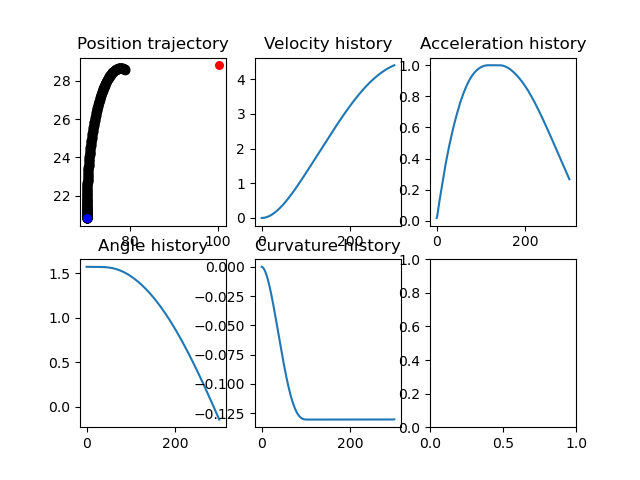
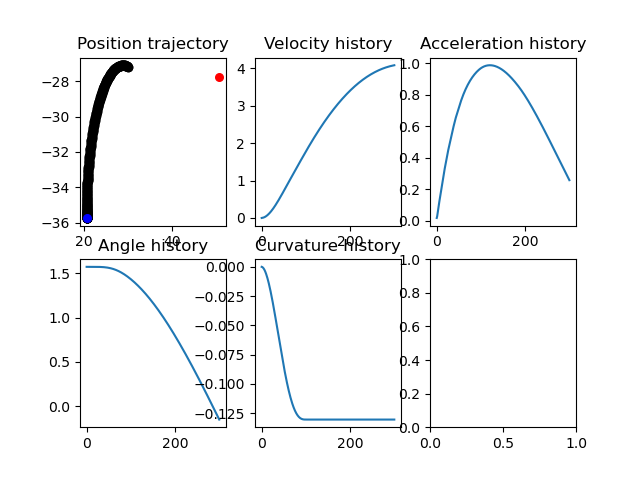
Fix bug where agent was reporting theoretical state, not actual state

diff --git a/src/envs/car/env.py b/src/envs/car/env.py
@@ -118,9 +118,7 @@ class Environment(CarRacing):
         gas_action = (1/500) * accel  # Polo's magic constant
         brake_action = 0
         env_action = np.array([steering_action, gas_action, brake_action])
-        print(env_action)
         # self.record_state()
         self.step(env_action)
-        self._current_state = next_state
-
+        self._current_state = np.concatenate([self._get_env_vars(), next_state[5:7]])
         return self.current_state
